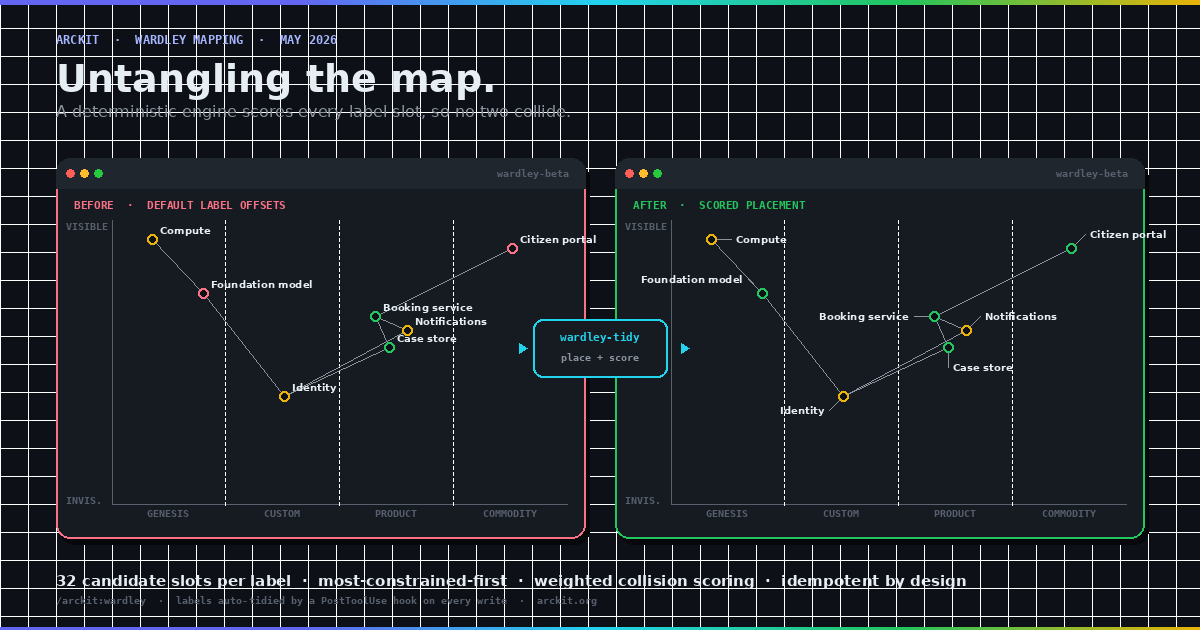
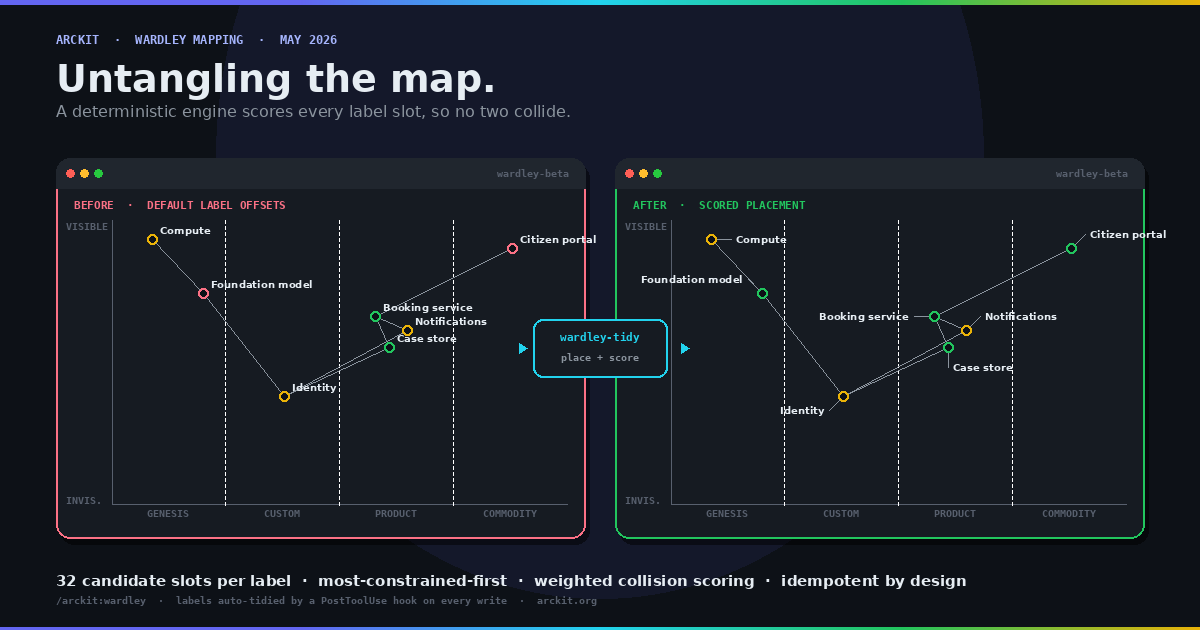
docs(article): drop grid background from tidy-wardley hero
The 28px white grid overlay read as noisy hash lines across the title,
subtitle and footer. Replaced with a soft indigo centre glow.

diff --git a/docs/articles/generate-hero-tidy-wardley-labels.py b/docs/articles/generate-hero-tidy-wardley-labels.py
@@ -34,11 +34,12 @@ CARD_CHROME = (32, 38, 46, 255)
 img = Image.new("RGBA", (WIDTH, HEIGHT), BG)
 draw = ImageDraw.Draw(img)
 
-# --- Subtle grid background ---
-for x in range(0, WIDTH, 28):
-    draw.line([(x, 0), (x, HEIGHT)], fill=(255, 255, 255, 8), width=1)
-for y in range(0, HEIGHT, 28):
-    draw.line([(0, y), (WIDTH, y)], fill=(255, 255, 255, 8), width=1)
+# --- Soft vignette: lift the centre, darken the corners ---
+glow = Image.new("RGBA", (WIDTH, HEIGHT), (0, 0, 0, 0))
+gdraw = ImageDraw.Draw(glow)
+gdraw.ellipse((WIDTH * 0.18, -HEIGHT * 0.45, WIDTH * 0.82, HEIGHT * 0.95),
+              fill=(99, 102, 241, 22))
+img.alpha_composite(glow)
 
 
 def draw_gradient_bar(y_start, y_end, alpha):
